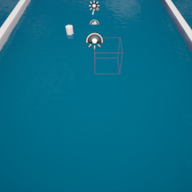
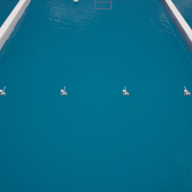
Changes made to README

diff --git a/README.md b/README.md
@@ -22,4 +22,107 @@
 
 Summarise your task, goals, approach, and final outcome. What was the intent of your work? What is the most important thing to know before reading on?
 
+My task for this project was to work in a team with game design students to create a pirate-themed party game consisting of three different minigames. For this project, the designers were responsible for coming up with the concepts and artwork for the game, whereas I was responsible for implementing the gameplay mechanics.
+
+---
+
+## Research *(Approx. 20-30% of word count)*
+
+### What sources or references have you identified as relevant to this task?
+
+Reflect on the **type** and **relevance** of sources explored. Justify your research direction in relation to the task brief and target outcomes.
+
+* What types of sources did you explore and why?
+* Which types of sources did you avoid and why?
+* How does the research relate to the user experience, technical approach, or creative aim?
+
+#### Sources
+
+For each source, provide:
+
+1. An **opening paragraph** describing the source's creator/publisher, reputation, and relevance.
+2. A **bullet list** of what you analysed or learned from it.
+3. A **closing paragraph** evaluating its usefulness or limitations.
+
+You may include both **academic resources** and **industry examples** (e.g. documentation, games, developer talks). You are encouraged to include plenty of images, videos and diagrams.
+
+> You should have at least 1 game source as inspiration, 1 documentation/tutorial source and 1 academic source at a minimum.
+
+---
+
+## Implementation *(Approx. 30–40% of word count)*
+
+### What was your development process and how did decisions evolve?
+
+Describe your technical and creative approach, including:
+
+* Planning, ideation, and iteration
+* Feedback received and how it was integrated
+* New tools, workflows, or systems explored
+
+### What creative or technical methods did you try?
+
+Were any methods unfamiliar or experimental? Did they succeed? Did they change your approach?
+
+### Did you experience any technical challenges?
+
+How did you address problems, bugs, or limitations?
+
+---
+
+## Testing *(Approx. 10–15% of word count)*
+
+### What testing methods did you use?
+
+* Did you conduct internal testing, peer testing, or user testing?
+* What were your key goals in testing?
+* What did you observe or learn from testing?
+* How did testing influence the final result?
+
+You may include screenshots, graphs, tables, or embedded videos to demonstrate tests and results.
+
+---
+
+## Critical Reflection *(Approx. 10–15% of word count)*
+
+### What went well?
+
+* What strengths or successes stood out in the final piece?
+* Did anything exceed expectations?
+
+### What could be improved or done differently next time?
+
+* Were there things that didn’t work? Why?
+* What would you try differently with more time or resources?
+
+---
+
+## Bibliography
+
+Please use [UCA's Harvard Referencing Format](https://mylibrary.uca.ac.uk/referencing) for all citations.
+
+Example:
+
+> Rollings, A. and Adams, E. (2003) *Andrew Rollings and Ernest Adams on Game Design*. New Riders Publishing.
+
+---
+
+## Declared Assets
+
+You must declare any content that was **not entirely created by you**, or was **modified with the aid of AI tools**. This includes:
+
+* Third-party 3D models, audio, textures, or code
+* Code snippets from tutorials or forums
+* AI-generated or AI-assisted assets (e.g. ChatGPT, GitHub Copilot, DALL·E)
+
+List these clearly, with context where needed.
+
+Example:
+
+> The following assets were created or modified with the use of GPT-4o:
+>
+> * `Test.cs` – generated structure with manual revision
+> * `UIAudioManager.cs` – refactored with Copilot suggestions
+> * `DevelopmentJournal.html` – generated layout and headings
+
 ---
